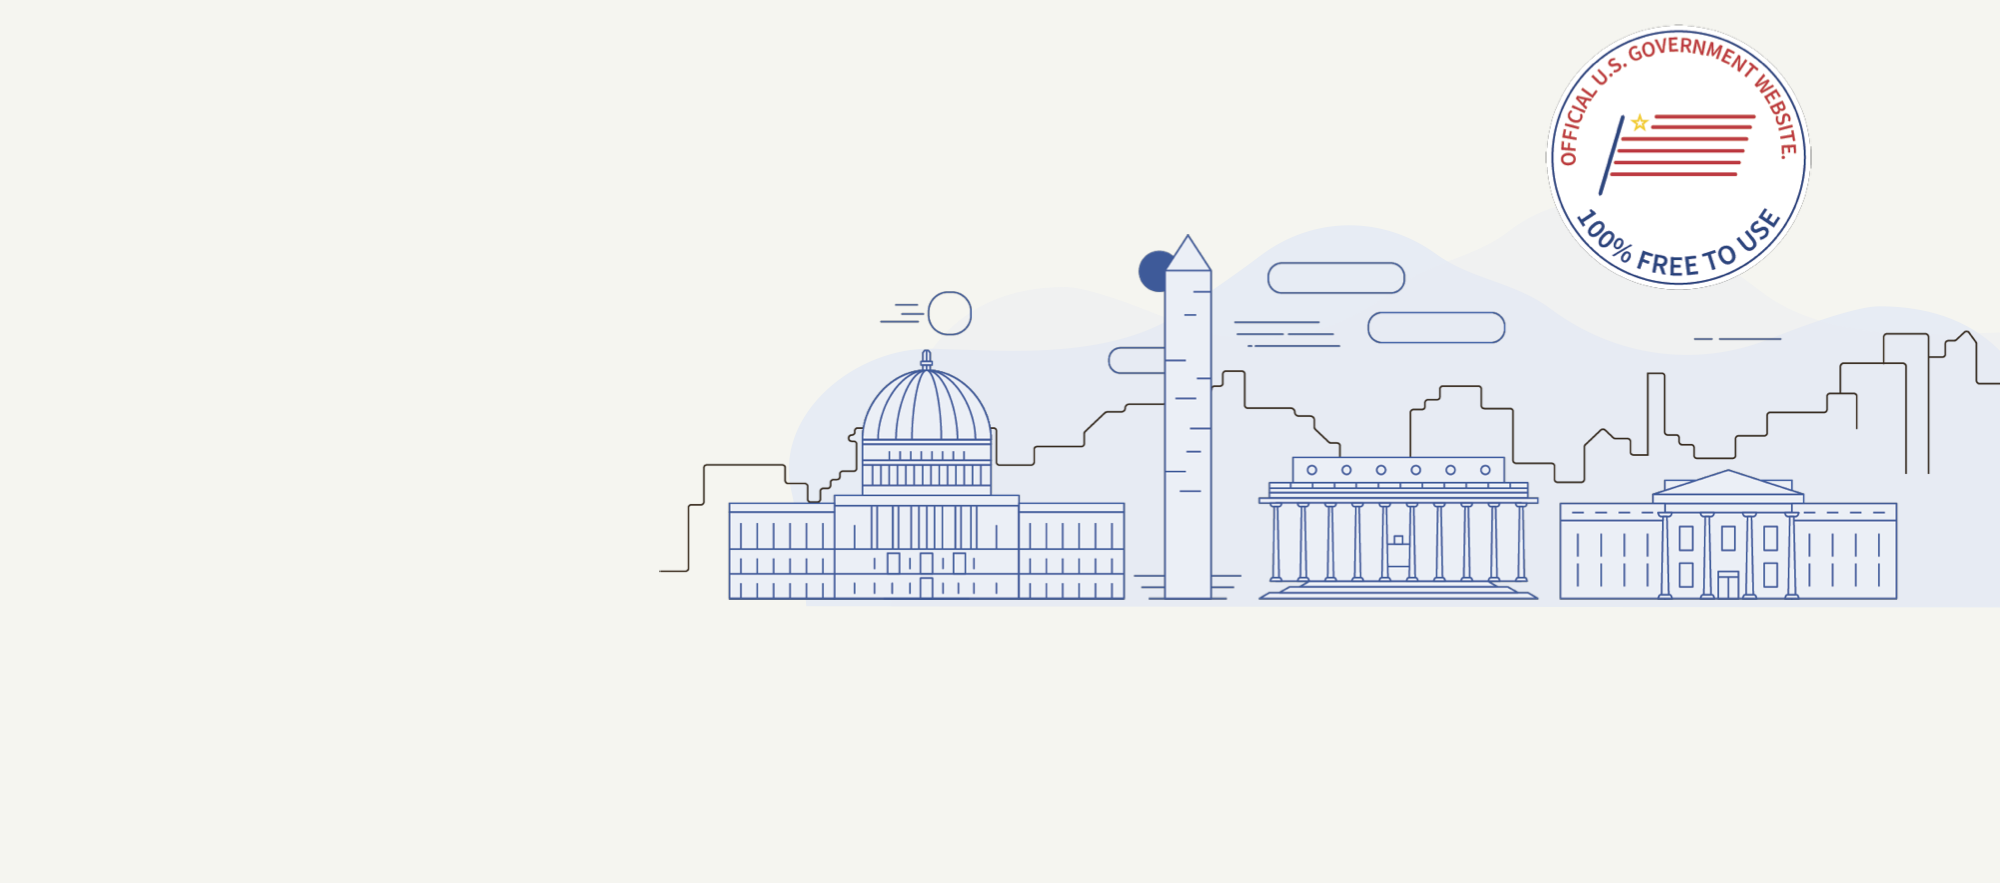
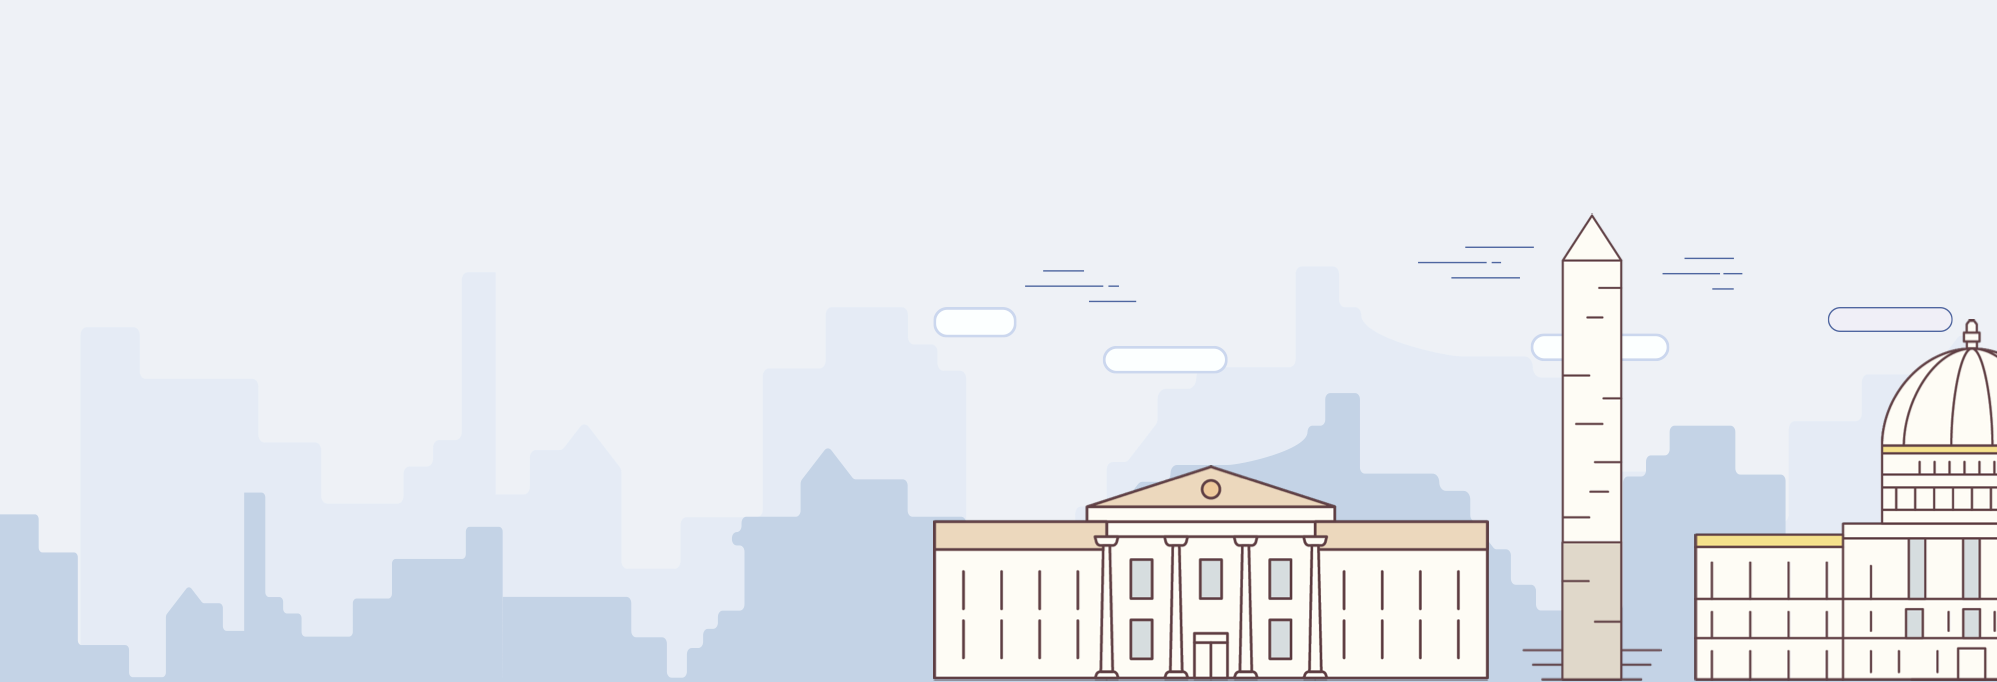
Added a side toolbar and data to the message feed. Updated to Version 0.25 of sam-styles. Updated accordion in search after component changed.

diff --git a/src/app/feed/service/feed.service.ts b/src/app/feed/service/feed.service.ts
@@ -1,0 +1,72 @@
+import { Injectable } from '@angular/core';
+
+import { Messages } from './feed.data';
+import { Observable, of } from 'rxjs';
+import { SearchParameters, SearchListInterface, SearchResult, SearchListConfiguration } from '@gsa-sam/layouts';
+
+import { MessageData } from './feed.model';
+
+@Injectable({
+  providedIn: 'root'
+})
+export class FeedService implements SearchListInterface {
+
+    constructor() {
+
+    }
+
+	  configuration: SearchListConfiguration = {
+	    defaultSortValue: 'dateDescending', pageSize: 25,
+	    sortList: 
+	    	[{ text: 'Published Date Descending', value: 'dateDescending' },
+	    	 { text: 'Published Date Ascending', value: 'dateAscending' }]
+	  };
+
+    getData(search: SearchParameters): Observable<SearchResult> {
+        let itemList = Messages;
+        const searchProperty = 'title';
+        let toReturn = [];
+
+        const start = search.page.pageNumber * search.page.pageSize - search.page.pageSize;
+        const end = start + search.page.pageSize;
+        this.sortEntityItem(itemList, search);
+        return of({
+            items: itemList.slice(start, end),
+            totalItems: itemList.length
+        });
+    }
+
+    private sortEntityItem(itemList: MessageData[], search: SearchParameters) {
+        let valueA = '';
+        let valueB = '';
+        let lessValueExpress = -1;
+        let moreValueExpress = 1;
+        itemList.sort((a, b) => {
+            switch (search.sortField) {
+                case 'dateDescending':
+                    lessValueExpress = -1;
+                    moreValueExpress = 1;
+                    valueA = a.date;
+                    valueB = b.date;
+                    break;
+                case 'dateAscending':
+                    lessValueExpress = 1;
+                    moreValueExpress = -1;
+                    valueA = a.date;
+                    valueB = b.date;
+                    break;
+                default:
+                    break;
+            }
+            if (valueA < valueB) {
+                return lessValueExpress;
+            }
+            else if (valueA > valueB) {
+                return moreValueExpress;
+            }
+            else {
+                return 0;
+            }
+        });
+    }
+}

diff --git a/src/app/home/home.component.html b/src/app/home/home.component.html
@@ -10,7 +10,7 @@
     	</ul>
     </div>
    </div>
-   <div class="grid-row" style="padding: 1em 3em; background-image: url('assets/img/home-graphic.png'); background-size: 90%; background-repeat: no-repeat; background-position: top right;">
+   <div class="grid-row" style="padding: 1em 3em; background-image: url('assets/img/home-graphic.png'); background-size: 100%; background-repeat: no-repeat; background-position: top right;">
    	<div class="grid-col">
 	   <h2>Welcome to SAM.gov</h2>
 	   <h4>You may use this system to:</h4>
@@ -19,19 +19,20 @@
 	   	<li>Search entity information including entity registrations and exclusions</li>
 	   </ul>
 	   <p>SAM.gov is also the official website for:</p>
-	   <ul>
+	   <ul style="line-height: 1.5">
 	   	<li><a href="">Contract Opportunities</a> (formerly fbo.gov)</li>
 	   	<li><a href="">Contract Data Reports</a> (formerly fpds.gov Reports) </li>
 	   	<li><a href="">Assistance Listings </a> (formerly cfda.gov) </li>
 	   	<li><a href="">Wage Determinations</a> (formerly wdol.gov)</li>
 	   </ul>
-	</div>
-   </div>
-   <div class="grid-row" style="margin: .75em 0;">
-   	    <div class="grid-col-5" style="padding-left: 3em;">
+	   <div class="grid-col-5" style="padding-left: 3em; margin-top: 2em; margin-bottom: 1.5em;">
    	    	<h4 style="font-size: .8em; font-weight: 300; font-style: italic; margin-bottom: .2em;">Search all of our data or select a data set to search</h4>
    	    	<sds-subheader-search (searchTerm)="log($event)"> </sds-subheader-search>
    	    </div>
+	</div>
+   </div>
+   <div class="grid-row" style="margin: .75em 0;">
+
    	    <div class="grid-col-7" style="margin-top: 34px;" >
    	    	<button class="usa-button" style="float: right;">Register Entity</button>
    	    	<button class="usa-button usa-button--secondary" style="float: right;">Search Contract Opportunities</button>

diff --git a/src/app/about/navigation/navigation.data.ts b/src/app/about/navigation/navigation.data.ts
@@ -3,15 +3,6 @@ import { SideNavigationModel, NavigationMode } from '@gsa-sam/components';
 export let aboutSideNavigationData: SideNavigationModel = {
     navigationLinks: [
         { id: 'aboutsam', text: 'About SAM.gov', mode: NavigationMode.INTERNAL, route: '/about/about-sam' },
-        {
-            id: 'resources', text: 'Resources', mode: NavigationMode.INTERNAL, route: '/about/resources', children: [
-                { id: 'assistanceresources', text: 'Assistance Listings', mode: NavigationMode.INTERNAL, route: '/about/resources/assistancelistings' },
-                { id: 'oppresources', text: 'Contract Opportunities', mode: NavigationMode.INTERNAL, route: '/about/resources/contractopportunities' },
-                { id: 'contractdataresources', text: 'Contract Data', mode: NavigationMode.INTERNAL, route: '/about/resources/contractdata' },
-                { id: 'entityresources', text: 'Entity Information', mode: NavigationMode.INTERNAL, route: '/about/resources/entities' },
-                { id: 'wageresources', text: 'Wage Determinations', mode: NavigationMode.INTERNAL, route: '/about/resources/wagedeterminations' },
-            ]
-        },
         { id: 'fsd', text: 'Federal Service Desk', mode: NavigationMode.INTERNAL, route: '/about/fsd' },
         { id: 'community', text: 'Community', mode: NavigationMode.INTERNAL, route: '/about/community' },
         { id: 'partners', text: 'Partners', mode: NavigationMode.INTERNAL, route: '/about/partners' },

diff --git a/src/app/feed/service/feed.data.ts b/src/app/feed/service/feed.data.ts
@@ -1,0 +1,37 @@
+import { MessageData, MessageType, MessageStatus } from './feed.model';
+
+export let Messages: MessageData[] = [
+	{
+		"id" : "0000001",
+		"type" : MessageType.Alert,
+		"title" : "Upcoming Scheduled Maintenance",
+		"description" : "SAM.gov will be down for scheduled maintenance Saturday, 09/14/2019, from 8:00 AM to 1:00 PM (EDT).",
+		"date" : "Jun 12, 2019",
+		"status" : MessageStatus.Information
+	},
+	{
+		"id" : "0000002",
+		"type" : MessageType.News,
+		"title" : "AAM 230 Published",
+		"description" : "The Department of Labor has published All Agency Memorandum 230: 2019 Service Contract Act Health and Welfare Fringe Benefit",
+		"date" : "Jun 06, 2019",
+		"status" : MessageStatus.None
+	},
+	{
+		"id" : "0000003",
+		"type" : MessageType.Notification,
+		"title" : "Wage Determination Notification",
+		"description" : "A new revision of WD CA20180029 is available as of 2018-05-04 00:05.",
+		"date" : "Jun 10, 2019",
+		"status" : MessageStatus.None
+	},
+	{
+		"id" : "0000004",
+		"type" : MessageType.Notification,
+		"title" : "Controlled Attachment Access Requested",
+		"description" : "Your request to access a controlled attachment for solicitation ILM-1029-12 has been submitted.",
+		"date" : "Jun 08, 2019",
+		"status" : MessageStatus.None
+	}
+
+];

diff --git a/src/app/workspace/filter-config.ts b/src/app/workspace/filter-config.ts
@@ -3,7 +3,7 @@ import { FormlyFieldConfig } from '@ngx-formly/core';
 export const RegistrationFields: FormlyFieldConfig[] = [
     {
       key: 'searchKeyword',
-      wrappers: ['accordianwrapper'],
+      wrappers: ['accordionwrapper'],
       templateOptions: { label: 'Keyword' },
       fieldGroup: [{
         key: 'keyword',
@@ -18,7 +18,7 @@ export const RegistrationFields: FormlyFieldConfig[] = [
 
     {
       key: 'searchEntity',
-      wrappers: ['accordianwrapper'],
+      wrappers: ['accordionwrapper'],
       templateOptions: { label: 'Entity' },
       fieldGroup: [
         {
@@ -63,7 +63,7 @@ export const RegistrationFields: FormlyFieldConfig[] = [
     },
     {
       key: 'registration',
-      wrappers: ['accordianwrapper'],
+      wrappers: ['accordionwrapper'],
       templateOptions: { label: 'Status' },
       fieldGroup: [
         {
@@ -94,7 +94,7 @@ export const RegistrationFields: FormlyFieldConfig[] = [
     },
     {
       key: 'expiration',
-      wrappers: ['accordianwrapper'],
+      wrappers: ['accordionwrapper'],
       templateOptions: { label: 'Expiration Date' },
       fieldGroup: [
         {

diff --git a/src/app/feed/feed.component.html b/src/app/feed/feed.component.html
@@ -7,5 +7,27 @@
     <sds-subheader-search (searchTerm)="log($event)"> </sds-subheader-search>
   </sds-subheader>
 </ng-container>
+<div style="margin-top: 1.5em; margin-bottom: 1.5em;">
 <sds-page>
+  <sds-page-options class="sam-page__options">
+    <sds-toolbar class="tablet:grid-col-auto" #toolbar="sdsToolbar" [expanded]="true">
+      <sds-accordion>
+      	<sds-accordion-item [expanded]="true">
+      		<sds-accordion-item-header>Show Messages For</sds-accordion-item-header>
+        	<sds-side-navigation #sideNav [model]="sideNavModel"></sds-side-navigation>
+        </sds-accordion-item>
+       </sds-accordion>
+    </sds-toolbar>
+    <div class="sds-page__content  tablet:grid-col margin-0">
+		<search-list-layout [service]="service" [configuration]="service.configuration">
+		    <ng-template #resultContent let-item>
+	    	    <div>
+	        	    <feed-item [model]="item"></feed-item>
+	        	</div>
+	    	</ng-template>
+		</search-list-layout>
+    </div>
+  </sds-page-options>
+
 </sds-page>
+</div>

diff --git a/src/app/feed/feed.component.ts b/src/app/feed/feed.component.ts
@@ -1,6 +1,12 @@
 import { Component, OnInit, Input } from '@angular/core';
 import { ActivatedRoute } from '@angular/router';
+
+import { SideNavigationModel, NavigationMode } from '@gsa-sam/components';
+
 import { SamModelService } from '../model/sam-model.service';
+import { FeedService } from './service/feed.service';
+import { MessageType } from './service/feed.model';
+import { feedNavigationData} from './navigation/navigation.data';
 
 @Component({
   selector: 'sam-feed',
@@ -11,7 +17,7 @@ export class FeedComponent implements OnInit {
 
   domain: string;
 
-  constructor(private route: ActivatedRoute, public model: SamModelService) {  
+  constructor(private route: ActivatedRoute, public service: FeedService, public model: SamModelService) {  
   }
 
   ngOnInit() {
@@ -23,6 +29,8 @@ export class FeedComponent implements OnInit {
         }
       });
   }
+
+  public sideNavModel: SideNavigationModel = feedNavigationData;
 
   log(value) {
     console.log(`%cLog: ${value}`, 'color: blue; font-weight: bold');

diff --git a/src/app/about/about.component.html b/src/app/about/about.component.html
@@ -8,13 +8,16 @@
 
 <sds-page>
   <sds-page-options class="sam-page__options">
-    <sds-toolbar #toolbar="sdsToolbar" [expanded]="true">
+    <sds-toolbar class="tablet:grid-col-auto" #toolbar="sdsToolbar" [expanded]="true">
       <sds-accordion>
-        <sds-side-navigation #sideNav [model]="sideNavModel"></sds-side-navigation>
-      </sds-accordion>
+        <sds-accordion-item [expanded]="true">
+          <sds-accordion-item-header>Show</sds-accordion-item-header>
+          <sds-side-navigation #sideNav [model]="sideNavModel"></sds-side-navigation>
+        </sds-accordion-item>
+       </sds-accordion>
     </sds-toolbar>
+    <div class="sds-page__content tablet:grid-col margin-0">
+      <router-outlet></router-outlet>
+    </div>
   </sds-page-options>
-  <div class="sds-page__content" [sdsToolbarExpand]="toolbar">
-    <router-outlet></router-outlet>
-  </div>
 </sds-page>

diff --git a/src/app/feed/feed.module.ts b/src/app/feed/feed.module.ts
@@ -7,6 +7,7 @@ import {
   SdsAccordionModule,
   SdsPageModule
 } from '@gsa-sam/components';
+
 import { SdsFiltersModule, SDSFormlyUpdateComunicationService } from '@gsa-sam/sam-formly';
 import { SdsSubheaderModule, SearchListServiceModule } from '@gsa-sam/layouts';
 
@@ -14,6 +15,7 @@ import { FormlyModule } from '@ngx-formly/core';
 import { FormsModule } from '@angular/forms';
 
 import { FeedRoutingModule } from './feed-routing.module';
+import { FeedItemModule } from './feed-item/feed-item.module';
 import { FeedComponent } from './feed.component';
 
 @NgModule({
@@ -29,7 +31,9 @@ import { FeedComponent } from './feed.component';
     SdsAccordionModule,
     SdsSubheaderModule,
     SdsFiltersModule,
-    FeedRoutingModule
+    SearchListServiceModule,
+    FeedRoutingModule,
+    FeedItemModule
   ],
   declarations: [FeedComponent]
 })

diff --git a/src/app/feed/feed-item/feed-item.component.html b/src/app/feed/feed-item/feed-item.component.html
@@ -1,0 +1,17 @@
+
+    <div class="grid-row usa-link-wrapper" style="padding-top: 0; padding-bottom: 0; margin-bottom: 0; margin-top: 0">
+    	<div class="tablet:grid-col-fill">
+    		<h3 class="tablet:grid-col-12 name"><a class="usa-link" [routerLink]="['/']">{{model.title}}</a></h3>
+    		<p>{{model.description}}</p>
+    	</div>
+    	<div *ngIf="model.type > 0" class="grid-col-auto">
+        	<h1 class="sds-type--label-title" style="color: transparent">Message Type</h1>
+        	<span class="sds-tag sds-tag--alt">{{getLabel(model.type)}}</span>
+    	</div>
+    	<div class="grid-col-auto">
+        	<h1 class="sds-type--label-title">Received Date</h1>
+        	<span class="sds-tag sds-tag--alt">{{model.date}}</span>
+    	</div>
+    </div>
+    <hr style="padding-top: 0; padding-bottom: 0; margin-bottom: .5em; margin-top: 0">
+

diff --git a/src/app/search/sam-search.component.html b/src/app/search/sam-search.component.html
@@ -10,9 +10,14 @@
 
 <sds-page>
   <sds-page-options class="sam-page__options">
-    <sds-toolbar #toolbar="sdsToolbar">
+    <sds-toolbar #toolbar="sdsToolbar" [expanded]="true">
       <sds-accordion multi="true">
-        <sds-side-navigation #sideNav [model]="sideNavModel"></sds-side-navigation>
+        <sds-accordion>
+        <sds-accordion-item [expanded]="true">
+          <sds-accordion-item-header>Show Results For</sds-accordion-item-header>
+          <sds-side-navigation #sideNav [model]="sideNavModel"></sds-side-navigation>
+        </sds-accordion-item>
+       </sds-accordion>
         <sds-filters *ngIf="fields && fields.length > 0" [form]="form" [fields]="fields" [model]="filterModel" (filterChange)="filterChange$.next($event)"></sds-filters>
       </sds-accordion>
     </sds-toolbar>

diff --git a/src/app/feed/feed-item/feed-item.component.ts b/src/app/feed/feed-item/feed-item.component.ts
@@ -1,0 +1,35 @@
+import { Component, OnInit, ChangeDetectionStrategy, Input } from '@angular/core';
+import { MessageData, MessageType } from '../service/feed.model';
+
+@Component({
+  selector: 'feed-item',
+  templateUrl: './feed-item.component.html',
+  styleUrls: ['./feed-item.component.scss'],
+  changeDetection: ChangeDetectionStrategy.OnPush
+})
+export class FeedItemComponent implements OnInit {
+
+  @Input() model: MessageData
+
+  constructor() { }
+
+  ngOnInit() {
+  }
+
+
+  getLabel(type: MessageType): string {
+    switch(type) {
+      case MessageType.Alert: {
+        return "Alert";
+      }
+      case MessageType.Notification: {
+        return "Notification";
+      }
+      case MessageType.News: { 
+        return "News";
+      }
+      return "None";
+    }
+  }
+
+}
